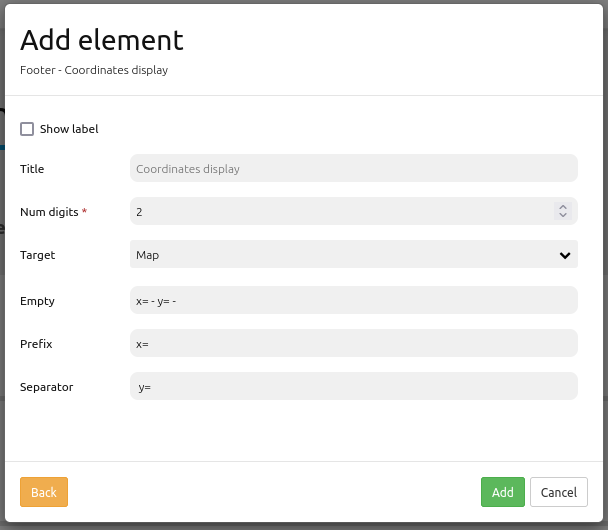
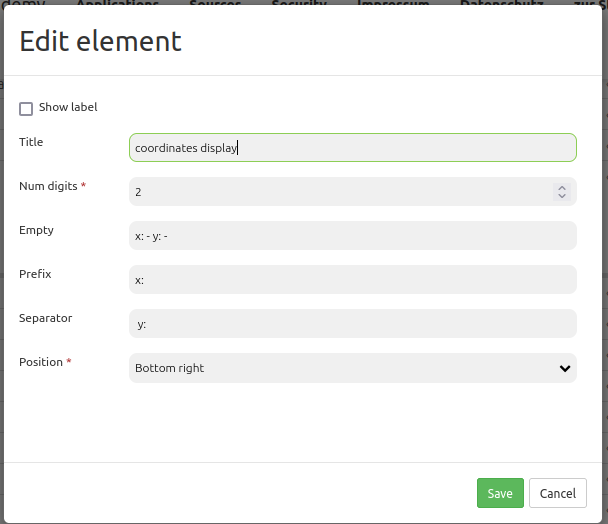
update 3.3.2 with anchor

diff --git a/de/functions/basic/coordinates_display.rst b/de/functions/basic/coordinates_display.rst
@@ -41,10 +41,10 @@ Konfiguration
 * **Beschriftung anzeigen (Show label):** Schaltet die Beschriftung an/aus. Die Beschriftung richtet sich nach dem Title.
 * **Title:** Titel des Elements. Dieser wird links neben den Koordinaten angezeigt, wenn "Beschriftung anzeigen" aktiviert ist.
 * **Num digits:** Anzahl der Nachkommastellen der Koordinaten.
-* **Target:** ID des Kartenelements, auf das sich das Element bezieht.
 * **Empty:** Angezeigter Text, wenn sich die Maus nicht in der Karte befindet (Standard: 'x= - y= -').
 * **Prefix:** Präfix vor der X-Koordinate (Standard: 'x= ').
 * **Separator:** Separator nach X- und vor Y-Koordinate (Standard: ' y= ').
+* **Position:** Positionierung (nur bei Nutzung im Kartenbereich)
 
 YAML-Definition:
 ----------------
@@ -54,12 +54,12 @@ Diese Vorlage kann genutzt werden, um das Element in einer YAML-Anwendung einzub
 .. code-block:: yaml
 
    numDigits: 2                   # die Anzahl der Nachkommastellen, die jede Koordinate haben soll
-   target: ~                      # ID des Kartenelements
+   target: map                    # ID des Kartenelements
    label: true                    # false/true, um den Button zu beschriften (Standard: true).
    empty: 'x= - y= -'             # zeigt diesen Text, wenn die Maus sich nicht in der Karte befindet.
    prefix: 'x= '                  # zeigt ein Präfix vor der X-Koordinate.
    separator: ' y= '              # zeigt einen Separator vor der Y-Koordinate.
-
+   anchor: 'right-bottom'         # Positionierung nur bei Nutzung im Kartenbereich (Standard: right-bottom) - Optionen: 'left-top', 'right-top', 'left-bottom', 'right-bottom'
 
 CSS-Styling
 ===========
